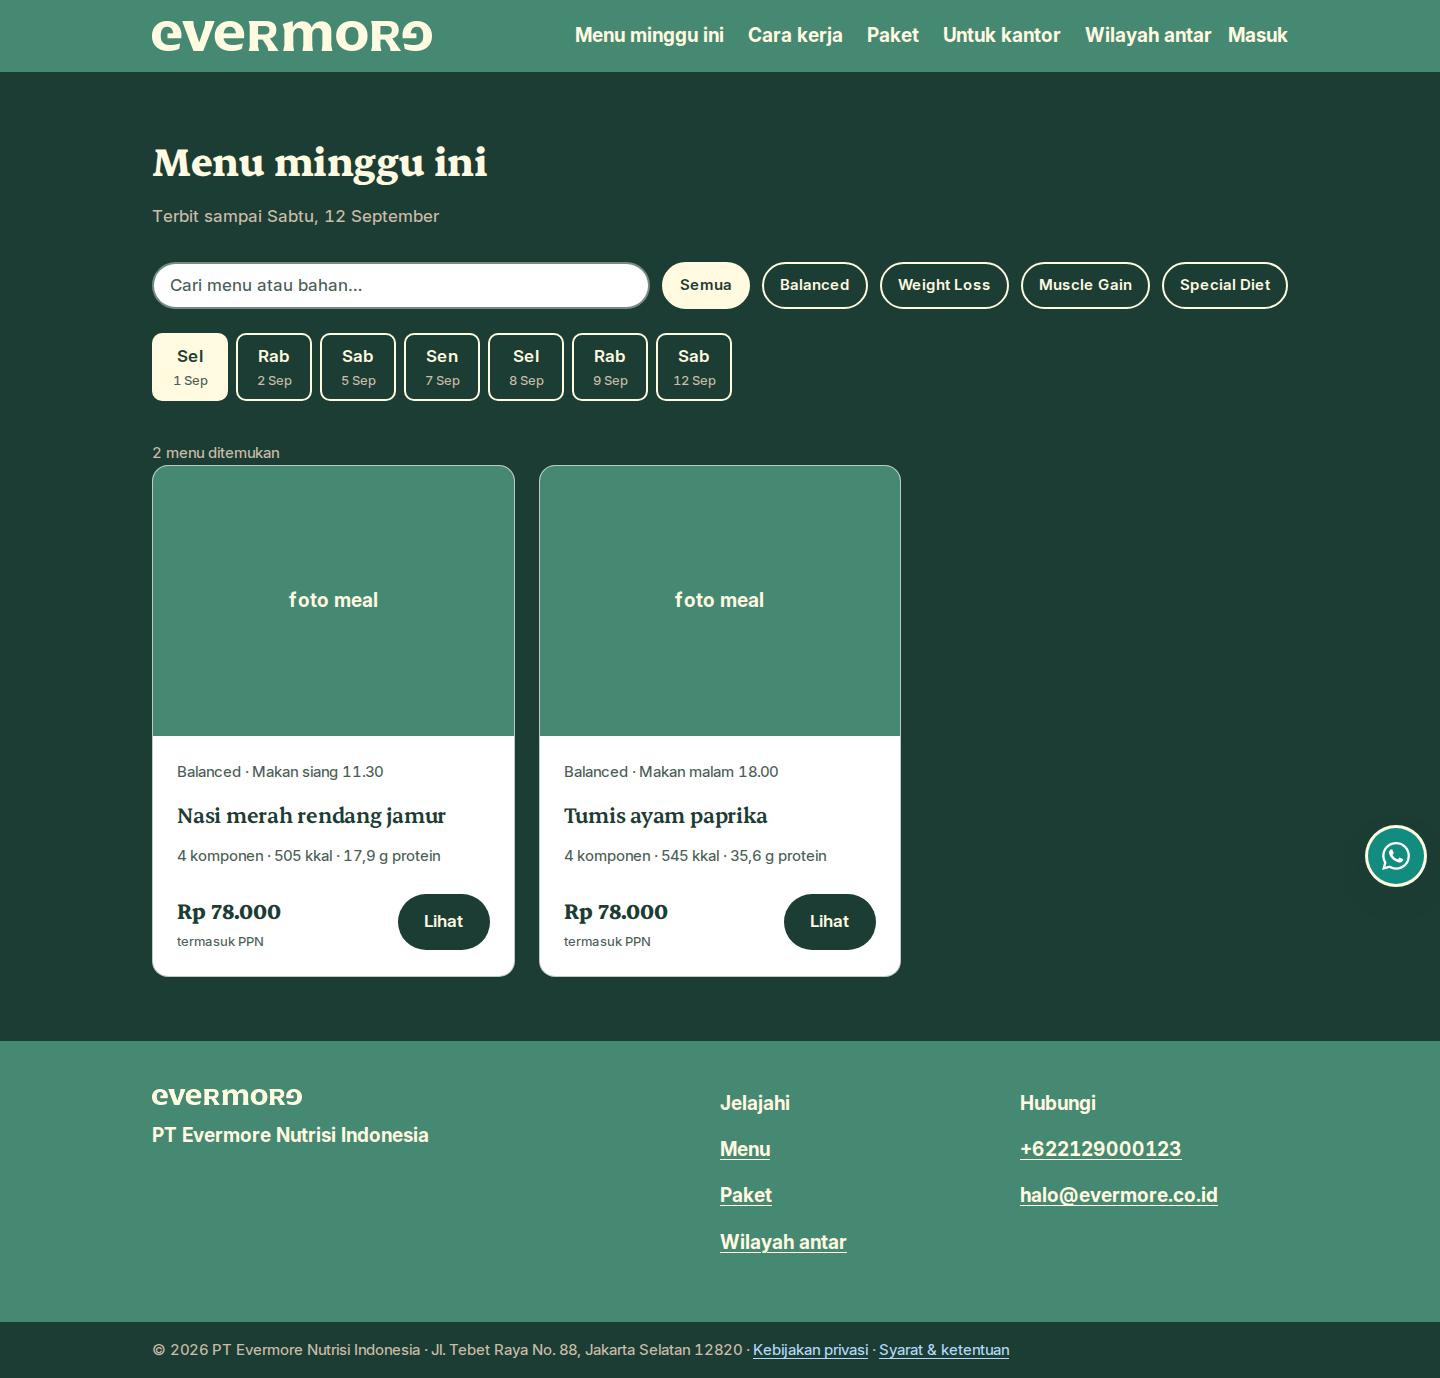
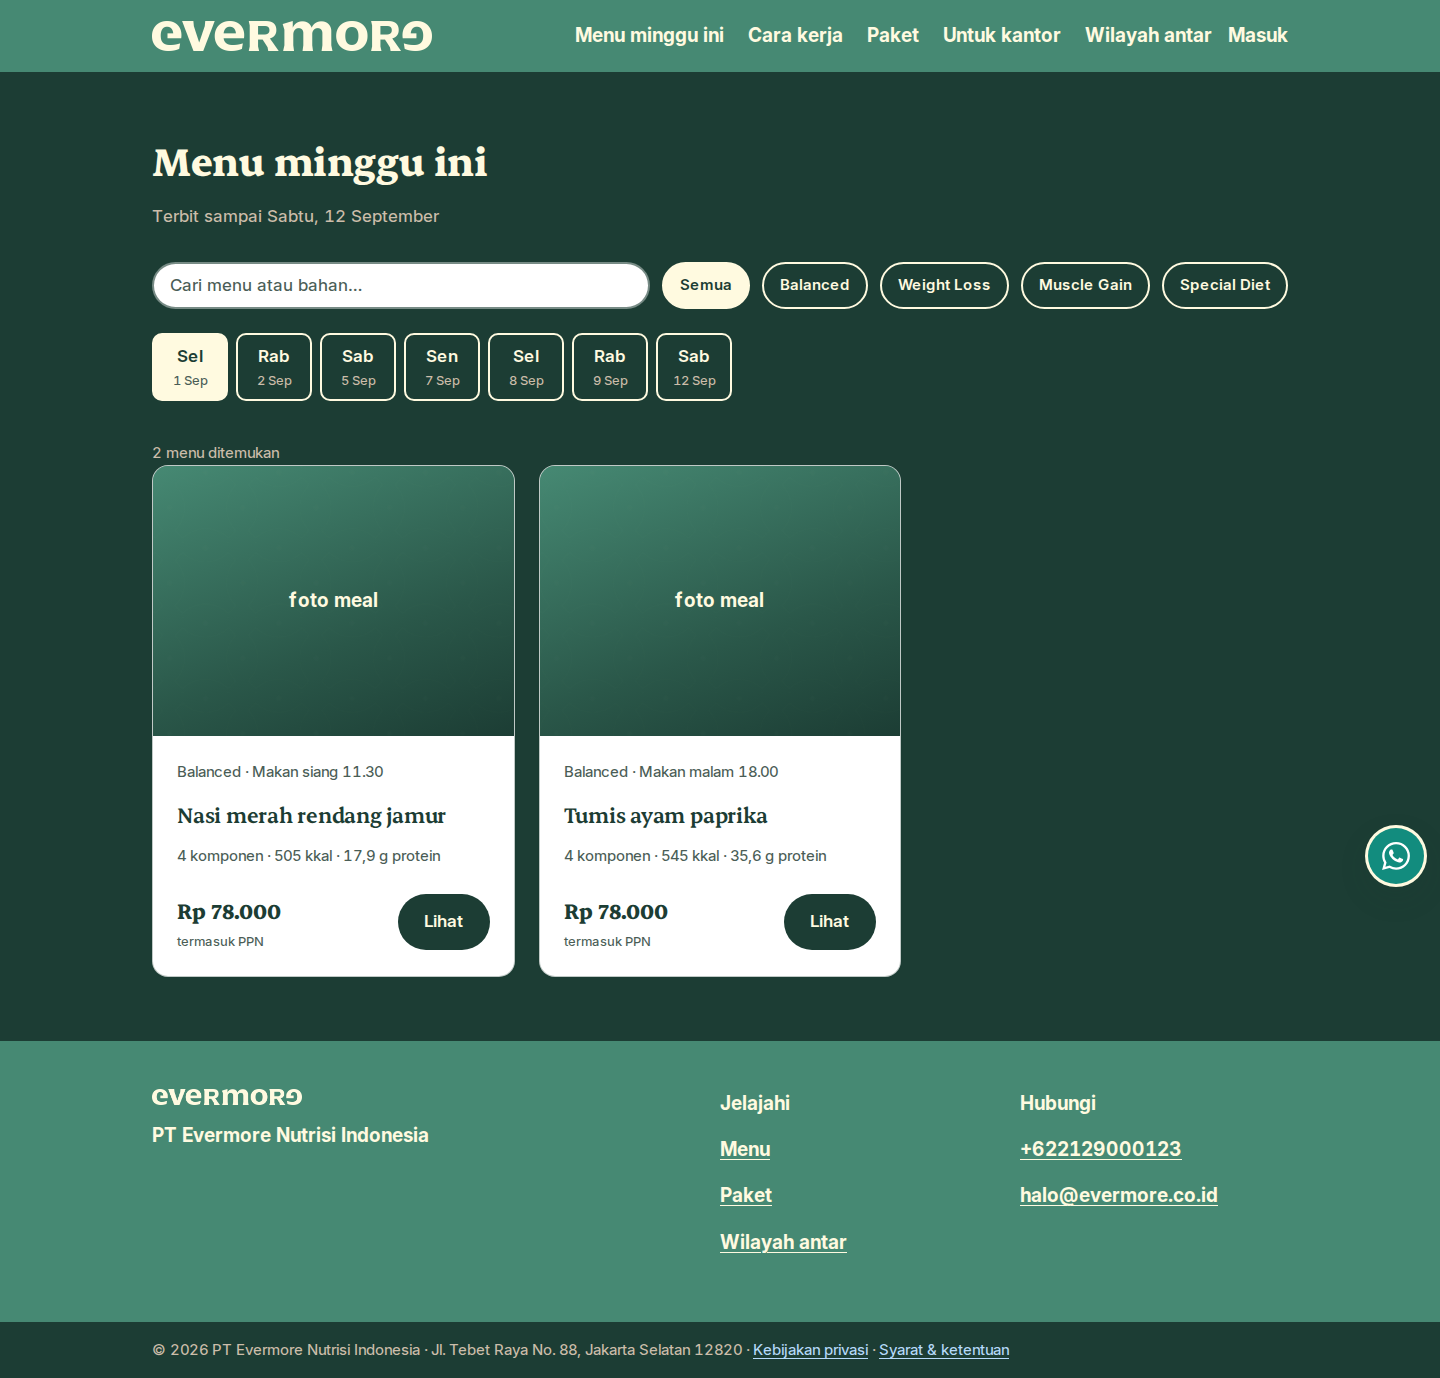
polish(home): section rhythm, hero art, accents — and a guard that was not guarding
Steven asked to polish home and play with the colour. The colour part had to
start with arithmetic, because the sheet tokens change meaning per ground.

Design:
- --band-raised #234A40, so sections alternate deep -> raised -> deep and the
  page has rhythm without the beige sheet he rejected. Beige 9.41, muted 5.38,
  white 9.88 — all AA or better.
- #2A5749 was the better-looking band and is REJECTED, recorded in design.md
  with its number so it is not re-proposed: muted text lands at 4.47, under the
  4.5 floor. The failure is only in the muted ink, the one nobody checks.
- the hero's empty green rectangle is now a proper 4:5 art panel
- meal media get a three-stop gradient plus the brand pattern at 10%
- hero stats take orange-light / blue-light / beige accent rules
- the featured package gets the gold ribbon (deep ink 5.65) with a star glyph,
  so the badge is not colour alone

Four defects found by working to the rules rather than by looking:

1. I INVENTED A RATIO. Writing the orange-deep button pairings into design.md I
   put 1.87 for beige-on-orange. It measures 2.90. Caught only because I
   measured the claim straight after writing it. A wrong number in that sheet
   is believed for years.
2. scripts/contrast.py CLAIMED to check design.md and did not — it compared
   against its own hardcoded table while printing "match the numbers recorded
   in design.md §3". That is the incident log's last row exactly. It now
[…]

Changed region(s): [[0.0938, 0.312, 0.625, 0.5617]]

diff --git a/web/public/css/app.css b/web/public/css/app.css
@@ -207,7 +207,9 @@ a:hover { text-decoration-thickness: 2px; }
   border-radius: var(--radius-lg); overflow: hidden;
   display: flex; flex-direction: column; box-shadow: var(--shadow-sm);
 }
-.card-media { aspect-ratio: 4 / 3; background: var(--nourish); display: grid; place-items: center; color: var(--beige); font-size: var(--text-bar); font-weight: var(--w-eyebrow); }
+/* .card-media is defined ONCE, further down under "media panels". Two rules
+ * of equal specificity setting the same property leave source order deciding,
+ * and the last reorder of this file would silently change the design. */
 .card-body { padding: var(--space-5); display: flex; flex-direction: column; gap: var(--space-2); flex: 1; }
 .card-body h3 { margin: 0; }
 /* A card title is the card's primary control on mobile; give it the touch
@@ -526,3 +528,108 @@ td.num, th.num { text-align: right; font-variant-numeric: tabular-nums; }
 
 /* The table header tints its own surface, so it is a light surface too. */
 .ground-deep th { background: rgba(28, 61, 52, 0.04); color: var(--nourish-deep); }
+
+
+/* ------------------------------------------------------- section rhythm */
+
+/* A section on the raised band. Alternating this with the deep ground gives
+ * the page rhythm without the beige sheet. Both inks clear AA on it (9.41 and
+ * 5.38, design.md §3), so nothing inside needs a special case — which is the
+ * whole reason the band was chosen over the better-looking #2A5749, where
+ * muted text falls to 4.47. */
+.band-raised { background: var(--band-raised); }
+
+/* A hairline between bands, so the step reads as deliberate rather than as a
+ * rendering seam. Decorative, not a control boundary, so --border-subtle is
+ * the right token here. */
+.band-raised + .section,
+.section + .band-raised { border-top: 1px solid var(--border-subtle); }
+
+/* --------------------------------------------------------- media panels */
+
+/* The photo placeholders were flat #468973. A soft two-stop gradient toward
+ * the deep ground gives them depth and stops a row of cards reading as a row
+ * of identical rectangles. Both stops are palette colours, and the label sits
+ * at 19px/700 — the bar rule — because beige on #468973 is 3.93 and is large
+ * text only. */
+.card-media {
+  aspect-ratio: 4 / 3;
+  display: grid;
+  place-items: center;
+  color: var(--beige);
+  /* 19px/700 is the bar rule, and it applies here for the same reason: the
+   * lightest gradient stop is #468973, where beige measures 3.93 — large text
+   * only. A 15px label here would look fine and be an AA failure. */
+  font-size: var(--text-bar);
+  font-weight: var(--w-eyebrow);
+
+  /* background-color is the LIGHTEST stop, not the middle one, for two
+   * reasons. It is the real fallback if the gradient does not paint, and it is
+   * what a contrast checker measures — so the reported number is the worst
+   * case across the gradient rather than a flattering average. */
+  background-color: var(--nourish);
+  background-image: linear-gradient(160deg, var(--nourish) 0%, #2A5749 62%, var(--nourish-deep) 100%);
+  position: relative;
+  overflow: hidden;
+}
+
+/* The brand pattern, held well back so it textures the panel without
+ * competing with the label. */
+.card-media::after {
+  content: "";
+  position: absolute;
+  inset: 0;
+  background-image: url("/images/pattern.png");
+  background-size: 220px auto;
+  background-repeat: repeat;
+  opacity: .10;
+  pointer-events: none;
+}
+.card-media > * { position: relative; z-index: 1; }
+
+/* ------------------------------------------------------------ hero art */
+
+/* The hero's right column was an empty green rectangle with a caption in it.
+ * This gives it the same treatment as a meal card plus a taller aspect, so it
+ * reads as intentional art direction rather than a missing image. */
+.hero-art {
+  aspect-ratio: 4 / 5;
+  border-radius: var(--radius-lg);
+  display: grid;
+  place-items: center;
+  text-align: center;
+  padding: var(--space-6);
+  color: var(--beige);              /* 11.32 on the deep stop, 3.93 on the light
+                                       stop — hence 19px/700 below */
+  font-size: var(--text-bar);
+  font-weight: var(--w-eyebrow);
+  box-shadow: var(--shadow-lg);
+}
+@media (max-width: 1023px) { .hero-art { aspect-ratio: 16 / 10; } }
+
+/* ------------------------------------------------------------- accents */
+
+/* An accent rule under a stat. Orange-light and blue-light are tints that take
+ * deep ink at 7.27 and 8.15; here they are used as 3px rules, which is
+ * decoration and carries no text, so no ink ratio applies. */
+.hero-stat { padding-left: var(--space-3); border-left: 3px solid var(--nourish); }
+.hero-stat:nth-child(1) { border-left-color: var(--orange-light); }
+.hero-stat:nth-child(2) { border-left-color: var(--blue-light); }
+.hero-stat:nth-child(3) { border-left-color: var(--beige); }
+
+/* The featured package's ribbon. Deep ink on the base gold is 5.65 (design.md
+ * §3), and that base is the worst case — the sheet notes the shimmer only ever
+ * lifts it. Kept as a static fill: an animated one is a promise about
+ * something nobody asked for. */
+.ribbon-gold {
+  display: inline-flex;
+  align-items: center;
+  gap: var(--space-2);
+  padding: var(--space-1) var(--space-3);
+  border-radius: var(--radius-pill);
+  background: var(--gold);
+  color: var(--nourish-deep);
+  font-size: var(--text-sm);
+  font-weight: var(--w-eyebrow);
+}
+.ribbon-gold::before { content: "\2605"; }   /* a star, so the badge is not colour alone */

diff --git a/web/templates/home.html b/web/templates/home.html
@@ -29,14 +29,14 @@
       </div>
     </div>
     <div>
-      <div class="card" style="background:var(--nourish);border:none">
-        <div class="card-media" style="background:var(--nourish-deep)">foto hero — meal di atas meja</div>
+      <div class="card-media hero-art">
+        <span>foto hero<br>meal di atas meja</span>
       </div>
     </div>
   </div>
 </section>
 
-<section class="section">
+<section class="section band-raised">
   <div class="container">
     <div class="section-head">
       <div>
@@ -75,19 +75,19 @@
   </div>
 </section>
 
-<section class="section" style="background:var(--nourish-deep);color:var(--beige)">
+<section class="section">
   <div class="container">
     <div class="section-head">
       <div>
         <p class="eyebrow">Lebih hemat</p>
-        <h2 style="color:var(--beige)">Bayar sekali, pakai 90 hari</h2>
+        <h2>Bayar sekali, pakai 90 hari</h2>
       </div>
     </div>
     <div class="card-grid">
       {{range .Packages}}
       <article class="card">
         <div class="card-body">
-          {{if .IsFeatured}}<p><span class="pill pill-warn">Paling laris</span></p>{{end}}
+          {{if .IsFeatured}}<p><span class="ribbon-gold">Paling laris</span></p>{{end}}
           <h3>{{.MealCredits}} porsi</h3>
           <p class="meta">{{rupiah .PerMealIDR}} per porsi &middot; berlaku {{.ValidityDays}} hari</p>
           <div class="card-foot">
@@ -98,7 +98,7 @@
       </article>
       {{end}}
     </div>
-    <p class="text-muted" style="color:var(--beige-deep);margin-top:var(--space-5)">
+    <p class="meta" style="margin-top:var(--space-5)">
       Kredit dipakai pada menu apa pun yang sudah terbit. Kredit tidak bisa diuangkan
       dan hangus setelah masa berlaku.
     </p>

diff --git a/web/public/css/tokens.css b/web/public/css/tokens.css
@@ -39,6 +39,12 @@
    * overscroll gutter from flashing the beige sheet at the edges. */
   --page-bg:       var(--nourish-deep);
   --page-ink:      var(--beige);
+  /* The alternating band. Sections step between --page-bg and this so the page
+   * has rhythm without returning to the beige sheet. Measured on it: beige
+   * 9.41, beige-deep 5.38, white 9.88 — all AA or better (design.md §3).
+   * #2A5749 was the obvious alternative and is REJECTED: muted text lands at
+   * 4.47, under the 4.5 body floor. */
+  --band-raised:   #234A40;
   --bar-bg:        var(--nourish);
   --bar-ink:       var(--beige);
   --card-bg:       var(--surface);

diff --git a/scripts/contrast.py b/scripts/contrast.py
@@ -13,6 +13,7 @@ Usage:
 
 from __future__ import annotations
 
+import pathlib
 import re
 import sys
 
@@ -101,6 +102,7 @@ NOURISH_DEEP = "#1C3D34"
 NOURISH = "#468973"
 BEIGE = "#FFFAE0"
 WHITE = "#FFFFFF"
+RAISED = "#234A40"   # the alternating band
 
 CHECKS: list[tuple[str, str, str, dict]] = [
     # (label, ink, ground, options)
@@ -140,6 +142,17 @@ CHECKS: list[tuple[str, str, str, dict]] = [
     ("WA beige ring on the deep ground", BEIGE, NOURISH_DEEP, {"non_text": True}),
     ("WA beige ring against the teal", BEIGE, "#128C7E", {"non_text": True}),
     ("WA white glyph on the teal", WHITE, "#128C7E", {"non_text": True}),
+
+    # The raised band. Sections alternate between the deep ground and this so
+    # the page has rhythm without returning to the beige sheet.
+    ("beige on the raised band", BEIGE, RAISED, {}),
+    ("beige-deep on the raised band", "#CCBDAA", RAISED, {}),
+    ("white on the raised band", WHITE, RAISED, {}),
+    # Rejected candidate, kept so nobody re-proposes it: it looks like a good
+    # band and puts muted text at 4.47, which is under the 4.5 body threshold.
+    ("beige-deep on #2A5749 (REJECTED band)", "#CCBDAA", "#2A5749", {}),
+    ("deep ink on the gold ribbon fill", NOURISH_DEEP, "#D4AF37", {}),
+    ("beige ink on orange-deep", BEIGE, "#E0782D", {"large": True}),
 ]
 
 # What design.md §3 records. A drift between the sheet and the arithmetic is
@@ -174,6 +187,12 @@ RECORDED = {
     "WA beige ring on the deep ground": 11.32,
     "WA beige ring against the teal": 3.94,
     "WA white glyph on the teal": 4.14,
+    "beige on the raised band": 9.41,
+    "beige-deep on the raised band": 5.38,
+    "white on the raised band": 9.88,
+    "beige-deep on #2A5749 (REJECTED band)": 4.47,
+    "deep ink on the gold ribbon fill": 5.65,
+    "beige ink on orange-deep": 2.90,
 }
 
 
@@ -204,10 +223,41 @@ def main(argv: list[str]) -> int:
 
     print()
     if drift:
-        print(f"{drift} pairing(s) disagree with design.md §3 — one of them is wrong.")
+        print(f"{drift} pairing(s) disagree with the recorded table — one of them is wrong.")
         return 1
-    print(f"All {len(CHECKS)} pairings match the numbers recorded in design.md §3.")
+
+    # The RECORDED table above is a hand-kept copy of design.md §3, and a
+    # hand-kept copy drifts. The incident log has a guard that silently stopped
+    # guarding because its oracle was stale, so this asserts the sheet and the
+    # arithmetic still agree instead of claiming it.
+    missing = _sheet_drift()
+    if missing:
+        print(f"{len(missing)} ratio(s) are NOT written in design.md §3:")
+        for label, value in missing:
+            print(f"  {value:.2f}  ({label})")
+        print("The arithmetic and the sheet disagree. Update design.md.")
+        return 1
+
+    print(f"All {len(CHECKS)} pairings match, and every ratio appears in design.md §3.")
     return 0
+
+
+def _sheet_drift() -> list[tuple[str, float]]:
+    """Return recorded ratios that do not appear in design.md.
+
+    Deliberately a weak check on strong data: it looks for the NUMBER, not for
+    surrounding prose, because prose wanders and a check that reads prose will
+    eventually be argued into agreeing with the bug.
+    """
+    sheet = pathlib.Path(__file__).resolve().parent.parent / ".claude/skills/impeccable/design.md"
+    if not sheet.exists():
+        return []
+    text = sheet.read_text()
+    out = []
+    for label, value in RECORDED.items():
+        if f"{value:.2f}" not in text:
+            out.append((label, value))
+    return out
 
 
 if __name__ == "__main__":

diff --git a/docs/00-README-and-decisions.md b/docs/00-README-and-decisions.md
@@ -110,6 +110,8 @@ in the affected docs the same day.
 | D27 | 2026-09-01 | **Reservation walks the ranked kitchen list under lock, rather than committing to the router's first choice.** `routing.Rank` returns every eligible kitchen; checkout tries each in order and falls through when one turns out to be full. | Free capacity is read outside the row lock. Committing to one kitchen meant 12 concurrent checkouts against 6 available portions sold only 4, telling four customers there was no capacity while another kitchen had room. Found by tightening the oversell test until the limit actually bound. | domain/routing, app/ordering, 01 §5.3 |
 | D28 | 2026-09-01 | **The seed resolves every cross-reference by natural key, never by the id it wanted to write.** Nineteen sites changed. | Inserts are ON CONFLICT (natural key) DO NOTHING, so a row already present under a different id meant the seed's own id was never written and every reference to it broke with a foreign-key violation. Idempotency that only holds on an empty database is not idempotency. | app/seed |
 | D29 | 2026-09-01 | **A meal with an incomplete nutrition panel cannot be published.** The back-office publish action refuses it and the disabled button states the reason. | §5.2b says a meal missing a component's panel is incomplete rather than summed; publishing one would under-report the panel on the customer screen. A disabled control explains itself (CLAUDE.md §7). | adapter/http, 01 §5.2b |
+| D30 | 2026-09-01 | **The beige sheet is retired as a page ground; the deep green `#1C3D34` is the ground everywhere, with `#234A40` as an alternating band.** Applied on `<main>` so every page inherits it. | Steven, 2026-09-01: the beige read as yellow and he asked for the homepage green across the site. The band exists because a single flat ground lost the page's rhythm. `#2A5749` was the better-looking band and is **rejected**: muted `#CCBDAA` lands at 4.47 on it, under the 4.5 body floor — recorded in design.md §3 so it is not re-proposed. | 10, design.md §3, tokens.css |
+| D31 | 2026-09-01 | **`scripts/contrast.py` now verifies design.md rather than claiming to.** It compares its computed ratios against its recorded table, then asserts every recorded ratio actually appears in the sheet. | Its closing line used to read "match the numbers recorded in design.md §3" while comparing only against its own hardcoded table — the incident log's last row is a guard that silently stopped guarding. On its first run the new check found two ratios (3.90, 6.89) that lived only in D5 and had never reached the sheet. | scripts/contrast.py, design.md §3 |
 
 ---
 

diff --git a/docs/PROGRESS.md b/docs/PROGRESS.md
@@ -58,7 +58,8 @@ described that build; it was replaced on 2026-09-01 when this one started.
 | `go test ./test/... -shuffle=on` | **passes, 6 consecutive runs** — order-independent |
 | Oversell test | 40 concurrent writers vs capacity 20 → **20 win, reserved lands 20/20** |
 | Order numbering | 50 concurrent callers → **50 distinct numbers** |
-| `scripts/contrast.py` | **24/24 pairings match design.md §3** |
+| `scripts/contrast.py` | **34/34 pairings match, and every ratio is verified present in design.md §3** |
+| `tools/shot/guard-test.mjs` | the gradient blind-spot guard **fires on a synthetic defect and stays silent when fixed** |
 | `tools/shot` on the deployed URL | **30/30 clean** — 0 contrast failures, 0 bar-rule violations, no overflow, no undersized tap targets, across public, customer and back-office screens |
 | Full purchase flow on the deployed site | cart Rp 450.000 → order → **Transfer Rp 450.926, BCA 5391184402, suffix 926** |
 | Back office as ops manager | dashboard, menu calendar, payment queue all 200; the **same pages 403 for a customer token** |
@@ -91,6 +92,19 @@ Recorded because each was invisible in the source.
    a field error into a 500.
 8. **A dropped `.Scan`** on `SinglePortionPrice` — caught by the compiler, but
    it is the silent-failure class rule 2 exists for.
+9. **A contrast ratio invented in the design sheet.** While recording the
+   orange-deep button pairings I wrote 1.87 for beige-on-orange. It measures
+   **2.90**. Caught only because the number was measured immediately after
+   being written — a wrong number in that sheet is believed for years.
+10. **`scripts/contrast.py` claimed to check design.md and did not.** It
+    compared against its own hardcoded table while printing "match the numbers
+    recorded in design.md §3". It now verifies the sheet, and found two ratios
+    that had never been written there.
+11. **A gradient is invisible to a contrast probe.** `background-image` leaves
+    `background-color` transparent, so the probe measured text against the
+    white card behind the gradient and reported 1.05:1. The element now carries
+    a real fallback colour, and the probe reports gradient-only backgrounds as
+    a finding instead of walking past them.
 
 ---
 

diff --git a/.claude/skills/impeccable/design.md b/.claude/skills/impeccable/design.md
@@ -131,6 +131,31 @@ the teal. Both clear 1.4.11. The white glyph on the teal is **4.14**: an icon,
 so 3:1 applies, not 4.5. Do not "fix" the fill; it is WhatsApp's own colour and
 recolouring it stops the mark reading as WhatsApp.
 
+**Orange-deep `#E0782D` as a button fill.** It is decoration as *ink* (2.90 on
+beige, §2), but it can carry a large-text button if the ink is near-black. This
+was settled in D5 and belongs here, where it is looked up:
+
+| Ink on `#E0782D` | Ratio | |
+| --- | ---: | --- |
+| `#000000` | 6.89 | AAA at large size |
+| `#1C3D34` deep ink | 3.90 | AA at large size only |
+| `#FFFAE0` beige | 2.90 | ✗ never — and note it is the SAME 2.90 as orange-on-beige in the table above, because contrast is symmetric. Reversing a failing pair does not rescue it. |
+
+**The raised band `#234A40`.** Sections alternate between the deep ground and
+this band so the page has rhythm without returning to the beige sheet, which
+Steven rejected on 2026-09-01. Both inks clear AA on it:
+
+| Ink | Ratio | |
+| --- | ---: | --- |
+| `#FFFFFF` | 9.88 | AAA |
+| `#FFFAE0` beige | 9.41 | AAA |
+| `#CCBDAA` beige deep | 5.38 | AA — muted text |
+
+> **`#2A5749` was rejected as the band and should not be re-proposed.** It
+> looks like the obvious lighter green and puts beige on it at a comfortable
+> 7.82 — but muted `#CCBDAA` lands at **4.47**, under the 4.5 body floor. The
+> failure is only in the muted ink, which is exactly the one nobody checks.
+
 **Other pairings in use:** deep ink on blue-light **8.15** and on orange-light
 **7.27**.
 
